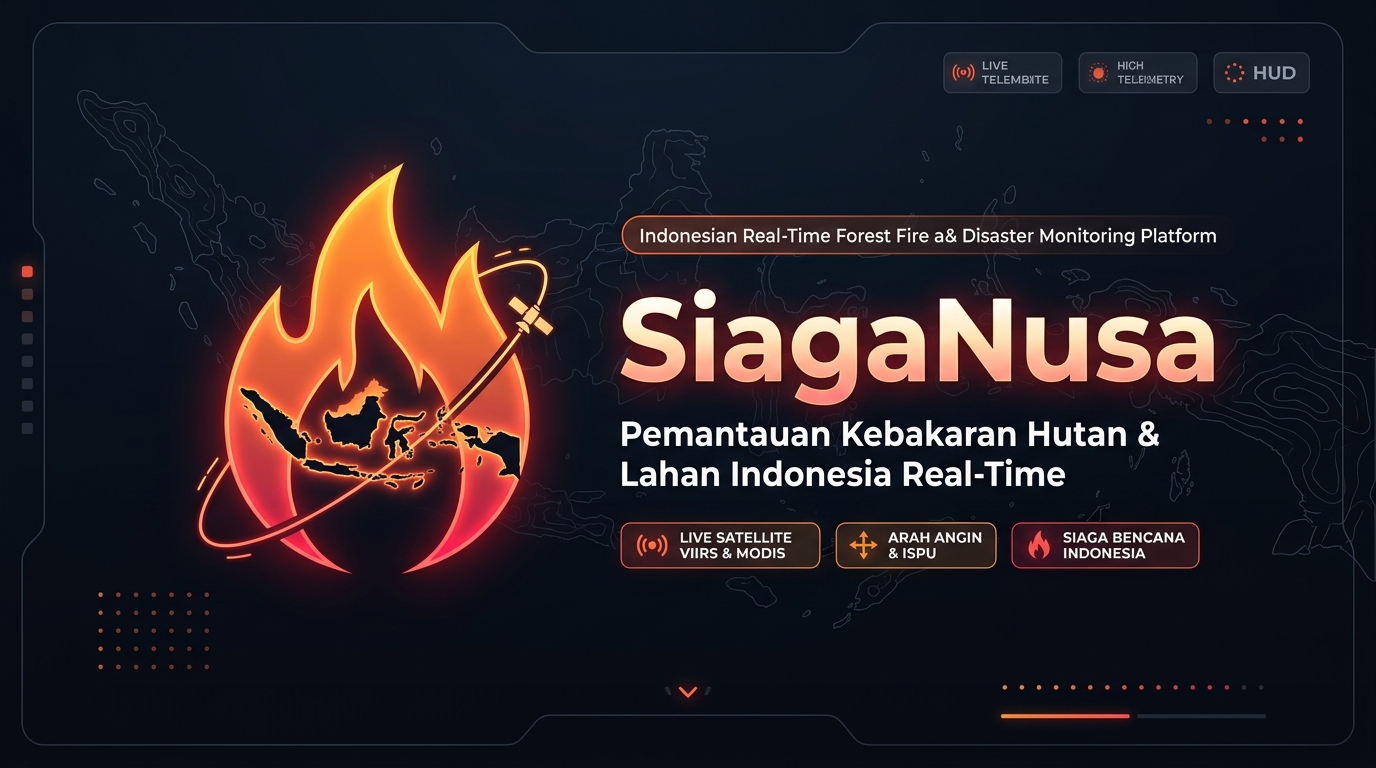
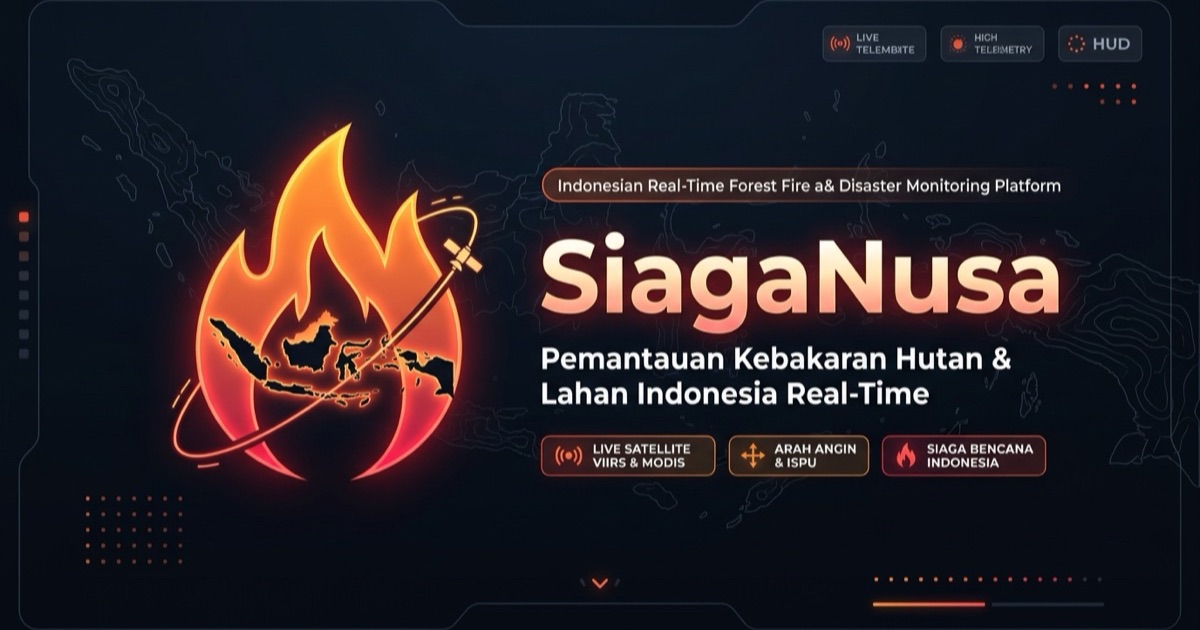
fix(seo): optimize og image to 1200x630 127kb and add cache-buster for WhatsApp

diff --git a/app/layout.tsx b/app/layout.tsx
@@ -58,9 +58,10 @@ export const metadata: Metadata = {
       "Pantau persebaran titik api karhutla, radius bahaya panas & asap, arah angin Open-Meteo, dan indeks ISPU secara langsung untuk seluruh wilayah Indonesia.",
     images: [
       {
-        url: "/images/og-siaganusa.jpg",
-        width: 1376,
-        height: 768,
+        url: "https://siaganusa.vercel.app/images/og-siaganusa.jpg?v=2",
+        secureUrl: "https://siaganusa.vercel.app/images/og-siaganusa.jpg?v=2",
+        width: 1200,
+        height: 630,
         alt: "SiagaNusa – Pemantauan Kebakaran Hutan & Lahan Indonesia Real-Time",
         type: "image/jpeg",
       },
@@ -71,7 +72,7 @@ export const metadata: Metadata = {
     title: "SiagaNusa – Pemantauan Kebakaran Hutan & Lahan Indonesia Real-Time",
     description:
       "Pantau persebaran titik api karhutla, radius bahaya panas & asap, arah angin Open-Meteo, dan indeks ISPU secara langsung untuk seluruh wilayah Indonesia.",
-    images: ["/images/og-siaganusa.jpg"],
+    images: ["https://siaganusa.vercel.app/images/og-siaganusa.jpg?v=2"],
     creator: "@levystudios",
   },
   robots: {

diff --git a/app/page.tsx b/app/page.tsx
@@ -39,9 +39,10 @@ export const metadata: Metadata = {
     type: 'website',
     images: [
       {
-        url: '/images/og-siaganusa.jpg',
-        width: 1376,
-        height: 768,
+        url: 'https://siaganusa.vercel.app/images/og-siaganusa.jpg?v=2',
+        secureUrl: 'https://siaganusa.vercel.app/images/og-siaganusa.jpg?v=2',
+        width: 1200,
+        height: 630,
         alt: 'SiagaNusa – Pemantauan Kebakaran Hutan & Lahan Indonesia Real-Time',
         type: 'image/jpeg',
       },
@@ -52,7 +53,7 @@ export const metadata: Metadata = {
     title: 'SiagaNusa – Pemantauan Kebakaran Hutan & Lahan Indonesia Real-Time',
     description:
       'Pantau persebaran titik api karhutla, radius bahaya panas & asap, arah angin Open-Meteo, dan indeks ISPU secara langsung untuk seluruh wilayah Indonesia.',
-    images: ['/images/og-siaganusa.jpg'],
+    images: ['https://siaganusa.vercel.app/images/og-siaganusa.jpg?v=2'],
     creator: '@levystudios',
   },
 };

diff --git a/app/tsunami/page.tsx b/app/tsunami/page.tsx
@@ -25,9 +25,10 @@ export const metadata: Metadata = {
     locale: 'id_ID',
     images: [
       {
-        url: '/images/og-siaganusa.jpg',
-        width: 1376,
-        height: 768,
+        url: 'https://siaganusa.vercel.app/images/og-siaganusa.jpg?v=2',
+        secureUrl: 'https://siaganusa.vercel.app/images/og-siaganusa.jpg?v=2',
+        width: 1200,
+        height: 630,
         alt: 'Simulator Tsunami Nusantara – SiagaNusa',
         type: 'image/jpeg',
       },
@@ -38,7 +39,7 @@ export const metadata: Metadata = {
     title: 'Simulator Tsunami Nusantara – SiagaNusa',
     description:
       'Platform numerik interaktif memodelkan penjalaran gelombang tsunami dari patahan megathrust laut dalam hingga proyeksi zona rendaman permukiman.',
-    images: ['/images/og-siaganusa.jpg'],
+    images: ['https://siaganusa.vercel.app/images/og-siaganusa.jpg?v=2'],
     creator: '@levystudios',
   },
 };
